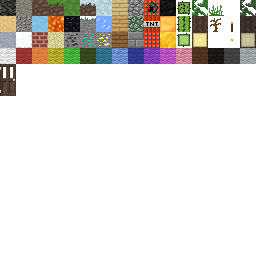
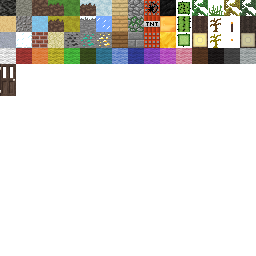
Biome tweak, and update the texture

Changed region(s): [[0.1875, 0.0625, 0.3125, 0.125], [0.875, 0.0, 0.9375, 0.0625], [0.8125, 0.125, 0.875, 0.1875]]

diff --git a/core/src/com/travall/game/world/World.java b/core/src/com/travall/game/world/World.java
@@ -1,6 +1,7 @@
 package com.travall.game.world;
 
 import static com.badlogic.gdx.math.MathUtils.floor;
+import static com.badlogic.gdx.math.Interpolation.smoother;
 import static com.travall.game.utils.BlockUtils.*;
 
 import com.badlogic.gdx.Gdx;
@@ -16,6 +17,7 @@ import com.travall.game.renderer.block.UltimateTexture;
 import com.travall.game.renderer.vertices.VoxelTerrain;
 import com.travall.game.utils.BlockPos;
 import com.travall.game.utils.Utils;
+import com.travall.game.utils.math.ChunkPlane;
 import com.travall.game.utils.math.OpenSimplexOctaves;
 import com.travall.game.world.biomes.*;
 import com.travall.game.world.chunk.ChunkBuilder;
@@ -27,7 +29,7 @@ public final class World implements Disposable {
 	/** Easy world access. */
 	public static World world;
 
-	public static final int mapSize = 256;
+	public static final int mapSize = 512;
 	public static final int mapHeight = 256;
 
 	public static final int chunkShift = 4; // 1 << 4 = 16. I set it back from 32 to 16 due to vertices limitations.
@@ -38,21 +40,22 @@ public final class World implements Disposable {
 	public static final int zChunks = mapSize / chunkSize;
 	public static final int downscale = 8; // 8 is a good value.
 
-	public static final int waterLevel = Math.round(mapHeight/5f); // 4.5f
+	public static final int waterLevel = Math.round(mapHeight/4.5f); // 4.5f
 	
 	private static final int[][][] dataPool = new int[mapSize][mapHeight][mapSize];
 
-	final public int[][][] data;
-	final public short[][] shadowMap;
-	final ChunkBuilder blockBuilder;
-	final GridPoint3 pos = new GridPoint3();
+	public final int[][][] data;
+	public final short[][] shadowMap;
+	
+	private final ChunkBuilder blockBuilder;
+	private final GridPoint3 pos = new GridPoint3();
 	private final BlockPos blockPos = new BlockPos();
-
-	final ChunkMesh[][][] opaqueChunkMeshes;
-	final ChunkMesh[][][] transparentChunkMeshes;
-	Biome[] biomes = {new Desert(), new Ground(), new Carmine()};
-	Vector3 tempVec = new Vector3();
-	Vector2 tempVec2 = new Vector2();
+	private Vector3 tempVec = new Vector3();
+	private Vector2 tempVec2 = new Vector2();
+	private Biome[] biomes = {new Desert(), new Ground(), new Carmine()};
+	private final ChunkMesh[][][] opaqueChunkMeshes;
+	private final ChunkMesh[][][] transparentChunkMeshes;
+	private final ChunkPlane[] planes = new ChunkPlane[4];
 
 	public World() {
 		World.world = this;
@@ -61,6 +64,10 @@ public final class World implements Disposable {
 		for (int y = 0; y < mapHeight; y++)
 		for (int z = 0; z < mapSize; z++) {
 			dataPool[x][y][z] = 0;
+		}
+		
+		for (int i = 0; i < planes.length; i++) {
+			planes[i] = new ChunkPlane();
 		}
 		
 		this.data = dataPool;
@@ -87,10 +94,10 @@ public final class World implements Disposable {
 		}
 	}
 
-	private Biome getPrevalent(int x, int z) {
+	private Biome getPrevalent(double x, double z) {
 		Biome prevalent = biomes[0];
 		for(int i = 0; i < biomes.length; i++) {
-			if(Utils.normalize(biomes[i].decisionMap.getNoise(x, z), 1) > Utils.normalize(prevalent.decisionMap.getNoise(x, z), 1)) {
+			if(Utils.normalize(biomes[i].decisionMap.getNoise(x, z)+biomes[i].size, 1) > Utils.normalize(prevalent.decisionMap.getNoise(x, z)+prevalent.size, 1)) {
 				prevalent = biomes[i];
 			}
 		}
@@ -101,7 +108,7 @@ public final class World implements Disposable {
 		final RandomXS128 random = new RandomXS128(seed);
 		OpenSimplexOctaves CaveNoise = new OpenSimplexOctaves(5, 0.25, random.nextLong());
 		OpenSimplexOctaves FloatingIslandNoise = new OpenSimplexOctaves(7, 0.35, random.nextLong());
-		int maxTerrainHeight = Math.round(mapHeight / 2);
+		int maxTerrainHeight = Math.round(mapHeight / 1.7f);
 
 		for(int i = 0; i < biomes.length; i++) {
 			biomes[i].heightMap = new OpenSimplexOctaves(biomes[i].heightOctaves, biomes[i].heightPersistence, random.nextLong());
@@ -113,7 +120,7 @@ public final class World implements Disposable {
 
 		for (int x = 0; x < mapSize; x++) {
 			for (int z = 0; z < mapSize; z++) {
-				Biome prevalent = getPrevalent(x,z);
+				Biome prevalent = getPrevalent(x/1.5,z/1.5);
 				prevalentBiomes[x][z] = prevalent;
 				heights[x][z] = (float) (Utils.normalize(prevalent.heightMap.getNoise(x, z), maxTerrainHeight)  * prevalent.heightModifier);
 			}
@@ -131,8 +138,7 @@ public final class World implements Disposable {
 
 				for (int i = yValue; i >= 0; i--) {
 					double caves = Utils.normalize(CaveNoise.getNoise(x, (i), z), maxTerrainHeight);
-					boolean caveTerritory = (caves >= maxTerrainHeight - (height - i / 1.5f) && caves > maxTerrainHeight / 2
-							&& i > 0);
+					boolean caveTerritory = (caves >= maxTerrainHeight - (height - i / 1.5f) && caves > maxTerrainHeight / 2 && i > 0);
 
 // 					if((getBlock(tmpBlockPos.set(x,i+1,z)) == primary.middle && getBlock(tmpBlockPos.set(x,i+2,z)) == primary.middle && getBlock(tmpBlockPos.set(x,i+3,z)) == primary.middle && getBlock(tmpBlockPos.set(x,i+4,z)) == primary.middle)) middleDone = true;
 
@@ -172,6 +178,7 @@ public final class World implements Disposable {
 					}
 				}
 				
+				///* sky islands
 				int centerX = mapSize / 4;
 				int centerY = mapHeight - mapHeight / 4;
 				int centerZ = mapSize / 4;
@@ -206,7 +213,7 @@ public final class World implements Disposable {
 							}
 						}
 					}
-				}
+				} //*/
 
 //				if(x == centerX && z == centerZ) {
 //					setBlock(centerX,centerY,centerZ,BlocksList.GOLD);
@@ -317,7 +324,7 @@ public final class World implements Disposable {
 						continue;
 					}
 					if (getShadow(x+1, z) < y || getShadow(x, z+1) < y ||
-							getShadow(x-1, z) < y || getShadow(x, z-1) < y || getShadow(x, z) < y+1) {
+						getShadow(x-1, z) < y || getShadow(x, z-1) < y || getShadow(x, z) < y+1) {
 
 						LightHandle.newSunlightAt(x, y, z, 14);
 					}
@@ -325,19 +332,41 @@ public final class World implements Disposable {
 				}
 			}
 	}
+	
+	// Gaussian matrix.	
+	private static final int GAUSSIAN_SIZE = 17;
+	private static final float[][] GAUSSIAN_MATRIX = new float[GAUSSIAN_SIZE][GAUSSIAN_SIZE];
+	static {
+		final int haft = GAUSSIAN_SIZE / 2;
+		final float size = GAUSSIAN_SIZE / 2.0f;
+		for (int x = 0; x < GAUSSIAN_SIZE; x++)
+		for (int z = 0; z < GAUSSIAN_SIZE; z++) {
+			final int xx = x - haft;
+			final int zz = z - haft;
+			final float sample = 1.0f - (sqrt((xx*xx)+(zz*zz)) / size);
+			GAUSSIAN_MATRIX[x][z] = sample > 0.0f ? smoother.apply(sample) : 0.0f;
+		}
+		
+	}
+	
+	private static float sqrt(int a) {
+		return (float)Math.sqrt(a);
+	}
 
 	/** Bilinear interpolation. */
 	private static float bilinear(float[][] map, int x, int z) {
 		float height = 0;
 		float total = 0;
 
-		for(int i = x - 4; i < x + 4; i++) {
-			for(int j = z - 4; j < z + 4; j++) {
-				if(Utils.inBounds(i,map.length)) {
-					if(Utils.inBounds(j,map[0].length)) {
-						height += map[i][j];
-						total++;
-					}
+		//final int size = 4;
+		x -= GAUSSIAN_SIZE / 2;
+		z -= GAUSSIAN_SIZE / 2;
+		for(int i = x; i < x + GAUSSIAN_SIZE; i++) {
+			for(int j = z; j < z + GAUSSIAN_SIZE; j++) {
+				if(Utils.inBounds(i,map.length) && Utils.inBounds(j,map[0].length)) {
+					float sample = GAUSSIAN_MATRIX[i-x][j-z];
+					height += map[i][j] * sample;
+					total += sample;
 				}
 			}
 		}
@@ -356,7 +385,11 @@ public final class World implements Disposable {
 	
 	public void render(Camera camera) {
 		LightHandle.calculateLights(); // Calculate lights.
-		final Plane[] planes = camera.frustum.planes;
+		
+		final Plane[] tmpPlanes =  camera.frustum.planes;
+		for (int i = 2; i < tmpPlanes.length; i++) {
+			planes[i-2].set(tmpPlanes[i]);
+		}
 
 		UltimateTexture.texture.bind();
 		VoxelTerrain.begin(camera);

diff --git a/core/src/com/travall/game/world/chunk/ChunkMesh.java b/core/src/com/travall/game/world/chunk/ChunkMesh.java
@@ -4,14 +4,12 @@ import java.nio.ByteBuffer;
 
 import com.badlogic.gdx.Gdx;
 import com.badlogic.gdx.graphics.GL30;
-import com.badlogic.gdx.math.Plane;
-import com.badlogic.gdx.math.Vector3;
 import com.badlogic.gdx.utils.BufferUtils;
 import com.badlogic.gdx.utils.Disposable;
 import com.badlogic.gdx.utils.FloatArray;
 import com.travall.game.glutils.VBO;
 import com.travall.game.glutils.VertContext;
-import com.travall.game.world.World;
+import com.travall.game.utils.math.ChunkPlane;
 
 public class ChunkMesh implements Disposable 
 {
@@ -62,13 +60,23 @@ public class ChunkMesh implements Disposable
 		isEmpty = false;
 	}
 	
-	public boolean isVisable(final Plane[] planes) {
+	public boolean isVisable(final ChunkPlane[] planes) {
 		final int size = planes.length;
 		for (int i = 2; i < size; i++) {
-			if (test(planes[i])) {
+			final ChunkPlane plane = planes[i];
+
+			final float dist = plane.normal.dot(xPos, yPos, zPos) + plane.d;
+			final float radius = plane.radius;
+			
+			if (dist > radius) {
 				continue;
 			}
-			return false;
+			
+			if (dist < -radius) {
+				return false;
+			}
+			
+			continue;
 		}
 		return true;
 	}
@@ -76,29 +84,6 @@ public class ChunkMesh implements Disposable
 	// For future optimization.
 	public int getVAOhandle() {
 		return vbo.getVAOhandle();
-	}
-	
-	private static final float SIZE = World.chunkSize/2;
-	
-	private boolean test(final Plane plane) {
-		final Vector3 normal = plane.normal;
-		
-		final float radius = 
-		SIZE * Math.abs(normal.x) +
-		SIZE * Math.abs(normal.y) +
-		SIZE * Math.abs(normal.z);
-
-		final float dist = normal.dot(xPos, yPos, zPos) + plane.d;
-
-		if (dist > radius) {
-			return true;
-		}
-		
-		if (dist < -radius) {
-			return false;
-		}
-		
-		return true;
 	}
 
 	@Override

diff --git a/core/src/com/travall/game/world/biomes/Biome.java b/core/src/com/travall/game/world/biomes/Biome.java
@@ -1,16 +1,16 @@
 package com.travall.game.world.biomes;
 
 import com.travall.game.blocks.Block;
-import com.travall.game.blocks.BlocksList;
 import com.travall.game.utils.math.OpenSimplexOctaves;
 
 public class Biome {
 	public String name;
 	public int heightOctaves;
 	public float heightPersistence;
-	public int decisionOctaves = 9;
+	public int decisionOctaves = 7;
 	public float decisionPersistence = 0.4f;
 	public float heightModifier;
+	public double size = 0.0;
 	public Block top;
 	public Block middle;
 	public Block underwater;

diff --git a/core/src/com/travall/game/world/biomes/Carmine.java b/core/src/com/travall/game/world/biomes/Carmine.java
@@ -8,6 +8,7 @@ public class Carmine extends Biome {
 		this.heightOctaves = 8;
 		this.heightPersistence = 0.4f;
 		this.heightModifier = 1f;
+		this.size = -0.08;
 		this.top = BlocksList.CARMINE;
 		this.middle = BlocksList.DIRT;
 		this.underwater = BlocksList.DIRT;

diff --git a/core/src/com/travall/game/world/biomes/Desert.java b/core/src/com/travall/game/world/biomes/Desert.java
@@ -10,6 +10,7 @@ public class Desert extends Biome {
 		this.heightOctaves = 8;
 		this.heightPersistence = 0.2f;
 		this.heightModifier = 1;
+		this.size = -0.1;
 		this.top = BlocksList.SAND;
 		this.middle = BlocksList.SAND;
 		this.underwater = BlocksList.SAND;

diff --git a/core/src/com/travall/game/world/biomes/Ground.java b/core/src/com/travall/game/world/biomes/Ground.java
@@ -8,6 +8,7 @@ public class Ground extends Biome {
 		this.heightOctaves = 8;
 		this.heightPersistence = 0.4f;
 		this.heightModifier = 1f;
+		this.size = 0.05;
 		this.top = BlocksList.GRASS;
 		this.middle = BlocksList.DIRT;
 		this.underwater = BlocksList.DIRT;
